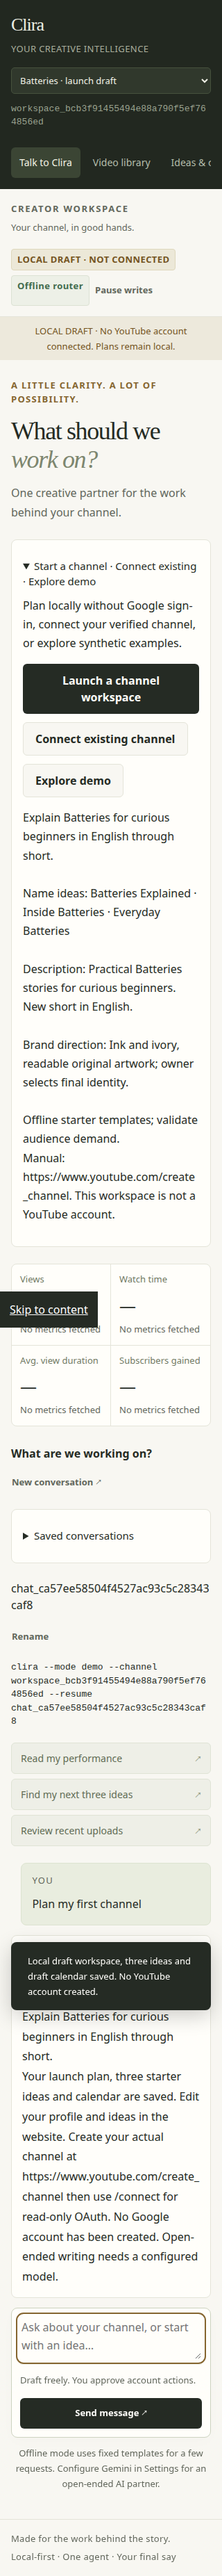
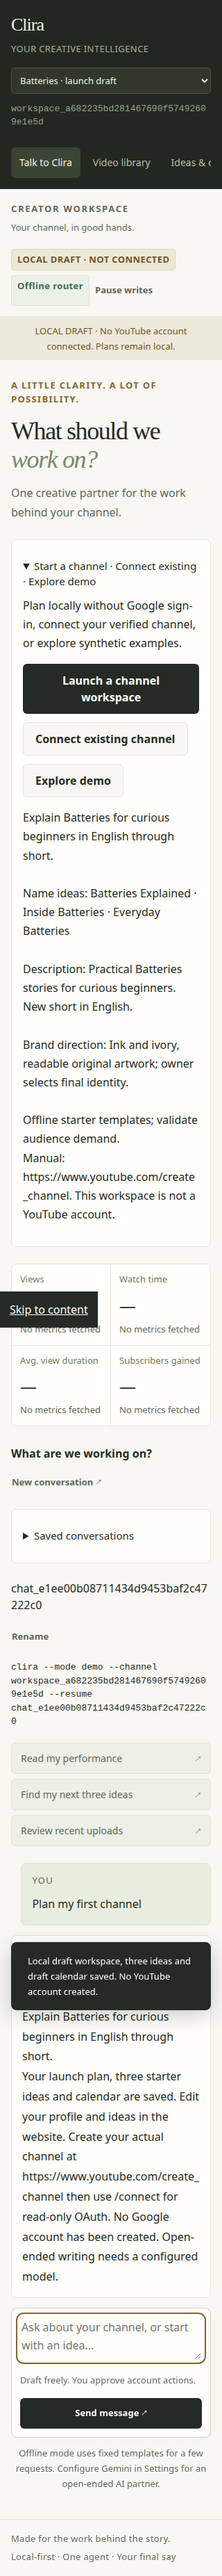
Restore approval-dialog focus explicitly and verify Chromium 1248
Wait for real focus restoration and use CSP-compatible function predicates in browser tests. Keep CSP unchanged. Add complete terminal capability/policy/queue status and refresh actual prototype captures.

96 tests and the full five-width browser suite pass locally with CI's Chromium version. Candidate remains unreleased and live gates remain blocked.

diff --git a/clira/web/app.js b/clira/web/app.js
@@ -38,7 +38,7 @@ function button(text, handler, cls) {
   const b = el('button', cls, text); b.type = 'button';
   b.addEventListener('click', async () => {
     b.disabled = true;
-    try { await handler(); } catch (error) { toast(error.message, true); }
+    try { await handler(b); } catch (error) { toast(error.message, true); }
     finally { b.disabled = false; if(b.isConnected && document.activeElement===document.body)b.focus(); }
   });
   return b;
@@ -163,15 +163,16 @@ function renderProduction() {
   for (const draft of state.records.metadata) { const c = card(draft.title,'Metadata draft',draft.description); c.append(details('Disclosures & editorial lint', draft)); metadata.append(c); }
   if (!metadata.children.length) empty(metadata,'Metadata drafts stay local until an exact action is approved.');
 }
-async function approve(approval) {
+async function approve(approval, trigger) {
   const dialog = $('approvalDialog');
+  dialog.returnValue='cancel';
   $('confirmApproval').checked = false;
   $('approvalText').value = '';
   $('dialogTitle').textContent = 'Approve ' + approval.operation.replaceAll('_',' ');
   $('dialogChannel').textContent = `${state.channel.name} · ${channelId} · ${session.mode.toUpperCase()}`;
   $('dialogPayload').textContent = JSON.stringify(approval.payload,null,2);
   const answer = await new Promise(resolve => {dialog.addEventListener('close',()=>resolve(dialog.returnValue),{once:true}); dialog.showModal();});
-  if (answer !== 'approve' || $('approvalText').value !== 'APPROVE') return;
+  if (answer !== 'approve' || $('approvalText').value !== 'APPROVE') {if(trigger?.isConnected){trigger.disabled=false;trigger.focus();}return;}
   await api('/api/approvals/'+approval.id,{channel_id:channelId,approve:true});
   await refresh(); $('approvals').querySelector('button')?.focus(); toast('Approved exact payload. Run the job when ready.');
 }
@@ -187,7 +188,7 @@ function renderApprovals() {
     c.append(el('pre','',JSON.stringify(approval.payload,null,2)));
     const actions = el('div','actions');
     if (approval.status==='PENDING' && !expired) {
-      actions.append(button('Review & approve exact action',()=>approve(approval)),button('Reject',async()=>{await api('/api/approvals/'+approval.id,{channel_id:channelId,approve:false}); await refresh();},'secondary'));
+      actions.append(button('Review & approve exact action',trigger=>approve(approval,trigger)),button('Reject',async()=>{await api('/api/approvals/'+approval.id,{channel_id:channelId,approve:false}); await refresh();},'secondary'));
     }
     if (expired && job && ['AWAITING_APPROVAL','QUEUED','FAILED_RETRYABLE','PAUSED'].includes(job.state)) {
       actions.append(button('Request fresh approval for this job',async()=>{await api('/api/approvals/'+approval.id+'/renew',{channel_id:channelId});await refresh();toast('Fresh consent requested. The same job and saved session are preserved.');},'secondary'));

diff --git a/clira/tui/app.py b/clira/tui/app.py
@@ -68,7 +68,40 @@ class Terminal:
         self.print(f"Clira {__version__} · {label.get(c['mode'], '') if c else 'No channel selected'}")
         if c:
             self.print(f"{c['name']}\n{c['id']}")
-        self.print(f"Model: {self.service.config.model} · owner approves account actions")
+        config = self.service.config
+        model = (
+            "Offline · limited templates"
+            if config.model == "offline"
+            else (
+                "Gemini · enabled"
+                if config.allow_model_calls and os.getenv("GEMINI_API_KEY")
+                else "Gemini · unavailable (enable calls and configure key privately)"
+            )
+        )
+        self.print(f"Model: {model}")
+        paused = self.service.store.setting("paused", False)
+        writes = (
+            "PAUSED"
+            if paused
+            else "owner approval required"
+            if config.enable_writes
+            else "live writes disabled"
+        )
+        self.print("Policy: " + writes)
+        if c:
+            pending = self.service.store.rows(
+                "SELECT COUNT(*) AS count FROM approvals WHERE channel_id=? AND status='PENDING'",
+                (self.channel,),
+            )[0]["count"]
+            jobs = self.service.store.rows(
+                "SELECT state,COUNT(*) AS count FROM jobs WHERE channel_id=? GROUP BY state", (self.channel,)
+            )
+            self.print(
+                f"Pending approvals: {pending} · Jobs: "
+                + (", ".join(f"{j['state']} {j['count']}" for j in jobs) or "none")
+            )
+            if c["mode"] == "live":
+                self.print("Account: " + ("connected" if c["connection"] else "Not connected"))
         if c and self.console.width >= 80:
             self.print(f"Scopes: {', '.join(c['connection'].get('scopes', [])) or 'none'}")
         if self.conversation:

diff --git a/tests/browser_smoke.py b/tests/browser_smoke.py
@@ -158,8 +158,8 @@ def main():
                 )
                 page.keyboard.press("Escape")
                 page.locator("#approvalDialog").wait_for(state="hidden")
-                assert page.evaluate(
-                    "document.activeElement.textContent.includes('Review & approve exact action')"
+                page.wait_for_function(
+                    "() => document.activeElement.textContent.includes('Review & approve exact action')"
                 )
                 assert (
                     next(
@@ -214,8 +214,8 @@ def main():
                 )
                 page.keyboard.press("Escape")
                 page.locator("#approvalDialog").wait_for(state="hidden")
-                assert page.evaluate(
-                    "document.activeElement.textContent.includes('Review & approve exact action')"
+                page.wait_for_function(
+                    "() => document.activeElement.textContent.includes('Review & approve exact action')"
                 )
                 assert (
                     next(
@@ -248,7 +248,7 @@ def main():
                 page.locator("#message").fill("Show my latest videos again")
                 page.locator("#message").press("Enter")
                 page.locator("#sendButton", has_text="Send message").wait_for()
-                page.wait_for_function("document.querySelectorAll('#messages .assistant').length >= 3")
+                page.wait_for_function("() => document.querySelectorAll('#messages .assistant').length >= 3")
                 page.reload(wait_until="networkidle")
                 assert shared_id in page.locator("#terminalResume").inner_text()
                 shared = httpx.get(url + "/api/conversations/DEMO_CHANNEL_TECH/" + shared_id).json()

diff --git a/docs/VERIFICATION_V1_RC.md b/docs/VERIFICATION_V1_RC.md
@@ -45,8 +45,8 @@ uv run --locked --extra dev python scripts/verify_artifacts.py --artifacts dist/
 
 Fresh Python suite: **96 passed** (61 baseline tests preserved + 35 new tests). Python lint and
 formatting pass; JavaScript and shell syntax pass. One upstream Starlette/httpx TestClient deprecation
-warning remains. Python 3.12.16, SQLite 3.53.1, ffmpeg/ffprobe, uv 0.13.6, installed Chromium headless
-shell revision 1243 were used. Browser executable can be overridden through CLIRA_BROWSER; CI installs
+warning remains. Python 3.12.16, SQLite 3.53.1, ffmpeg/ffprobe, uv 0.13.6, Chromium headless
+shell revisions 1243 and 1248 were used. The final local run uses 1248, matching CI. Browser executable can be overridden through CLIRA_BROWSER; CI installs
 its matching Chromium revision.
 
 Browser checks exercise all eight views at **1440/1280/768/390/320px**, without horizontal page
@@ -69,6 +69,13 @@ read-only mocked website OAuth, package hash/right changes, real image decoding,
 parsing/edit invalidation, chapters and UTF-8 description limits, official multipart caption and raw
 thumbnail requests, sanitized auth/quota/rate/server errors and unknown-outcome recovery. The existing
 lost-upload-response/same-session/no-duplicate tests still pass.
+
+The first GitHub CI attempt exposed a Chromium 1248 dialog-close timing difference after Escape.
+The owner dialog now explicitly restores focus to its trigger; the test waits for that observable
+focus result instead of assuming the hidden state and close-event handler finish simultaneously.
+The newer browser also enforces CSP for string-evaluating test predicates, so waits now use function
+predicates. CSP was kept strict. Local checks were repeated with matching Chromium 1248 before
+updating the RC branch.
 
 ## Artifact gate
 

diff --git a/AGENTS.md b/AGENTS.md
@@ -1,7 +1,9 @@
 # Clira implementation
 
 Read the original product contract in `mds/Clira_Agent_Architecture_Build_Pack/Clira/AGENTS.md`
-and `docs/PRODUCT_ANALYSIS.md`. It remains the design authority; originals are preserved.
+and `docs/PRODUCT_ANALYSIS.md`. Originals are preserved. For the v1 candidate, read
+`CLIRA_V1_TERMINAL_WEB_MASTER_SPEC_AND_CODEX_PROMPT.md` completely; it controls UX and release scope.
+Do not tag/publish stable v1.0.0 until every mandatory gate passes and the owner explicitly approves.
 
 - One Python agent with deterministic typed tools. No Hermes or autonomous subagents.
 - Rendering is external and optional. Do not modify Lemo internals.
